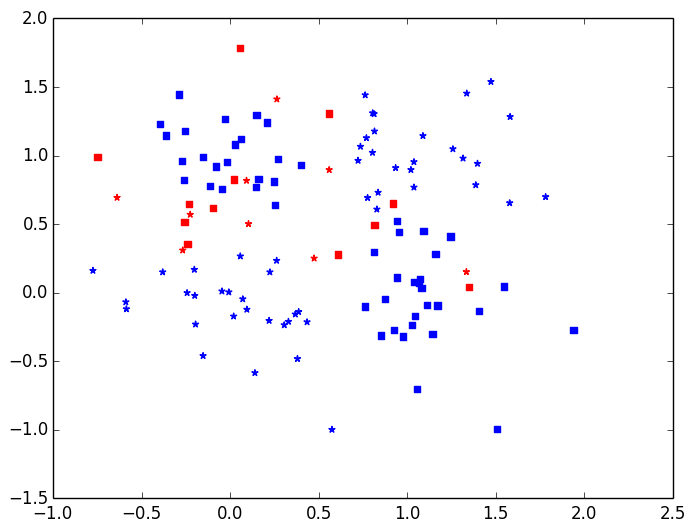
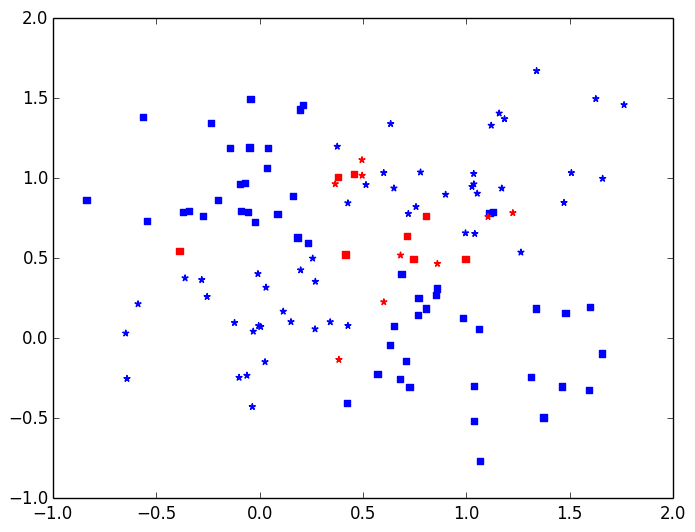
6.2

diff --git a/E6/6.1-2.py b/E6/6.1-2.py
@@ -1,0 +1,101 @@
+import numpy as np, matplotlib.pyplot as mplt, pylab
+from scipy.spatial import cKDTree as tree
+from random import randint
+
+# ------- Data Setup -------
+def createDataAsXYL(numberperset=60):
+   data = [[None, None, None] for x in range(2*numberperset)]
+   sd = np.sqrt(.1)
+   for i in range(0, 2*numberperset, 2):
+      myrand = randint(0,1)
+      data[i] = [np.random.normal(myrand, sd), np.random.normal(not myrand, sd),  1]
+      myrand = randint(0,1)
+      data[i+1] = [np.random.normal(myrand, sd), np.random.normal(myrand, sd), -1]
+      
+   return np.array(data)
+
+def getDataWithLabel(data, label):
+   return data[data.T[2]==label]
+
+data = createDataAsXYL(60)
+#print data
+
+# ------- 6.1 -------
+def findNearestNeighborIndiciesToScipy(data, pointindex, numberofneighbors):
+   t = tree(data[:,:-1])
+   return t.query(data[:,:-1][pointindex], numberofneighbors+1)[1][1:]
+
+
+for k in [1, 3, 5]:
+   classifiedasones = [None] * len(data)
+   
+   #find the classifications
+   for centerpointindex in range(len(data)):
+      classifications = data[ findNearestNeighborIndiciesToScipy(data, centerpointindex, k) ].T[2]
+      onespercentage = np.sum( (classifications + 1)*.5 ) / k
+      #print onespercentage > .5, onespercentage, classifications
+
+      classifiedasones[centerpointindex] = onespercentage > .5
+   #print np.asarray(classifiedasones)
+   #print len(data[np.asarray(classifiedasones)]), len(data[np.asarray(classifiedasones)==False])
+   ones = data[np.asarray(classifiedasones)]
+   zeros = data[np.asarray(classifiedasones)==False]
+   #print "ones:\n"+str(ones)
+   #print "zeros:\n"+str(zeros)
+
+   mplt.scatter(getDataWithLabel(zeros,  1).T[0], getDataWithLabel(zeros,  1).T[1], color='red',  marker='s')        #generated as  1, marked as -1
+   mplt.scatter(getDataWithLabel(ones,   1).T[0], getDataWithLabel(ones,   1).T[1], color='blue', marker='s')        #generated as  1, marked as  1
+   mplt.scatter(getDataWithLabel(zeros, -1).T[0], getDataWithLabel(zeros, -1).T[1], color='blue', marker=r'$\star$') #generated as -1, marked as -1
+   mplt.scatter(getDataWithLabel(ones,  -1).T[0], getDataWithLabel(ones,  -1).T[1], color='red',  marker=r'$\star$') #generated as -1, marked as  1
+   mplt.savefig('6.1b_k='+str(k)+'.png', bbox_inches='tight')
+
+
+
+# ------- 6.2 -------
+def findClassificationFromDataAndCenterindex(data, centerpointindex, sigmasquared):
+   cumulativevote = 0
+   #print str(centerpointindex)+" --- "+str(data[centerpointindex])
+   for otherpointindex in range(len(data)):
+      #print str(centerpointindex)+" --- "+str(otherpointindex)+" --- "+str(data[otherpointindex])
+      if otherpointindex==centerpointindex:
+         continue
+      
+      #find weight for this point to other point
+      weight = computeWeightFromDistance(\
+                                          computeDistance(data[centerpointindex][0], data[centerpointindex][1], data[otherpointindex][0], data[otherpointindex][1]),\
+                                          sigmasquared\
+                                       )
+      #print "\t", weight, data[centerpointindex][2]
+      cumulativevote += weight * data[otherpointindex][2]
+   
+   return cumulativevote
+   
+def computeDistance(ax, ay, bx, by):
+   return np.sqrt((ax-bx)**2 + (ay-by)**2)
+   
+def computeWeightFromDistance(distance, sigmasquared):
+   return np.exp(-1 * (distance**2 / (2*sigmasquared)) )
+   
+
+for sigmasquared in [.5, .1, .01]:
+   classifiedasones = [None] * len(data)
+   
+   #find the classifications
+   for centerpointindex in range(len(data)):
+      cumulativevote = findClassificationFromDataAndCenterindex(data, centerpointindex, sigmasquared)
+      classifiedasones[centerpointindex] = cumulativevote > 0
+   
+   #print np.asarray(classifiedasones)
+   #print len(data[np.asarray(classifiedasones)]), len(data[np.asarray(classifiedasones)==False])
+   ones = data[np.asarray(classifiedasones)]
+   zeros = data[np.asarray(classifiedasones)==False]
+   
+   
+   #print "ones:\n"+str(ones)
+   #print "zeros:\n"+str(zeros)
+
+   mplt.scatter(getDataWithLabel(zeros,  1).T[0], getDataWithLabel(zeros,  1).T[1], color='red',  marker='s')        #generated as  1, marked as -1
+   mplt.scatter(getDataWithLabel(ones,   1).T[0], getDataWithLabel(ones,   1).T[1], color='blue', marker='s')        #generated as  1, marked as  1
+   mplt.scatter(getDataWithLabel(zeros, -1).T[0], getDataWithLabel(zeros, -1).T[1], color='blue', marker=r'$\star$') #generated as -1, marked as -1
+   mplt.scatter(getDataWithLabel(ones,  -1).T[0], getDataWithLabel(ones,  -1).T[1], color='red',  marker=r'$\star$') #generated as -1, marked as  1
+   mplt.savefig('6.2b_s2='+str(sigmasquared)+'.png', bbox_inches='tight')
